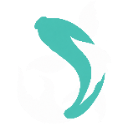
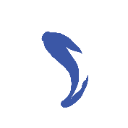
Final Update

Changed region(s): [[0.25, 0.125, 0.8438, 0.9375]]

diff --git a/components/content.js b/components/content.js
@@ -7,10 +7,12 @@ function extractSenderDomain() {
 
   if (hostname.includes("mail.google.com")) {
     // Gmail
-    const senderEl = document.querySelector("span[email]");
-    if (senderEl) rawSender = senderEl.getAttribute("email");
-  } else if (hostname.includes("outlook.cloud.microsoft")) {
-    // Outlook
+    const senderEl = document.querySelector("span[email]") || document.querySelector(".gD");
+    if (senderEl) {
+      rawSender = senderEl.getAttribute("email") || senderEl.innerText || "";
+    }
+  } else if (hostname.includes("outlook.cloud.microsoft") || hostname.includes("outlook.live.com")) {
+    // Outlook Web
     const senderEl = document.querySelector("[data-hovercard-id], [aria-label*='@']");
     if (senderEl) {
       rawSender = senderEl.getAttribute("data-hovercard-id") || senderEl.getAttribute("aria-label") || "";
@@ -18,19 +20,31 @@ function extractSenderDomain() {
   } else if (hostname.includes("mail.yahoo.com")) {
     // Yahoo Mail
     const senderEl = document.querySelector('[data-test-id="message-view-sender-email"], [data-test-id="sender-email"]');
-    if (senderEl) rawSender = senderEl.innerText || senderEl.getAttribute("title");
+    if (senderEl) {
+      rawSender = senderEl.innerText || senderEl.getAttribute("title") || "";
+    }
   } else if (hostname.includes("mail.icloud.com")) {
     // iCloud Mail
     const senderEl = document.querySelector('.cw-email-header-from, [data-test-id="from-address"]');
-    if (senderEl) rawSender = senderEl.innerText;
+    if (senderEl) {
+      rawSender = senderEl.innerText || "";
+    }
   } else if (hostname.includes("proton.me")) {
     // Proton Mail
     const senderEl = document.querySelector('.message-address[data-testid="message-header:from"]');
-    if (senderEl) rawSender = senderEl.getAttribute("title") || senderEl.innerText;
+    if (senderEl) {
+      rawSender = senderEl.getAttribute("title") || senderEl.innerText || "";
+    }
   }
 
   const emailMatch = rawSender.match(/[a-zA-Z0-9._%+-]+@([a-zA-Z0-9.-]+\.[a-zA-Z]{2,})/);
-  return emailMatch ? emailMatch[1].toLowerCase() : "";
+  const extractedDomain = emailMatch ? emailMatch[1].toLowerCase() : "";
+
+  if (extractedDomain.includes("vercel.app") || extractedDomain.includes("vercel.com")) {
+    return "";
+  }
+
+  return extractedDomain;
 }
 
 function extractEmailBody() {

diff --git a/components/popup.js b/components/popup.js
@@ -19,18 +19,18 @@ document.addEventListener("DOMContentLoaded", async () => {
 
     statusMsg.innerText = "";
     verdictBanner.className = "";
-    let themeColor = "#10b981";
+    let themeColor = "#53c566";
 
     const verdict = (data.verdict || "").toUpperCase();
 
     if (verdict === "SCAM") {
       verdictBanner.innerText = "SCAM";
       verdictBanner.classList.add("scam");
-      themeColor = "#ef4444";
+      themeColor = "#e75252";
     } else if (verdict === "SUSPICIOUS") {
       verdictBanner.innerText = "SUSPICIOUS";
       verdictBanner.classList.add("suspicious");
-      themeColor = "#f59e0b";
+      themeColor = "#ebaa61";
     } else {
       verdictBanner.innerText = "SAFE";
       verdictBanner.classList.add("safe");

diff --git a/components/popup.css b/components/popup.css
@@ -1,18 +1,18 @@
 :root {
-  --bg-primary: #0f172a;
+  --bg-primary: #031927;
   --bg-secondary: #1e293b;
   --border-color: #334155;
   --text-main: #f8fafc;
   --text-muted: #94a3b8;
   
   --color-safe:#0f172a;
-  --color-safe-bg: #10b981;
+  --color-safe-bg: #53c566;
   
   --color-suspicious: #0f172a;
-  --color-suspicious-bg: #f59e0b;
+  --color-suspicious-bg: #ebaa61;
   
   --color-scam: #0f172a;
-  --color-scam-bg: #ef4444;
+  --color-scam-bg: #e75252;
 }
 
 * {
